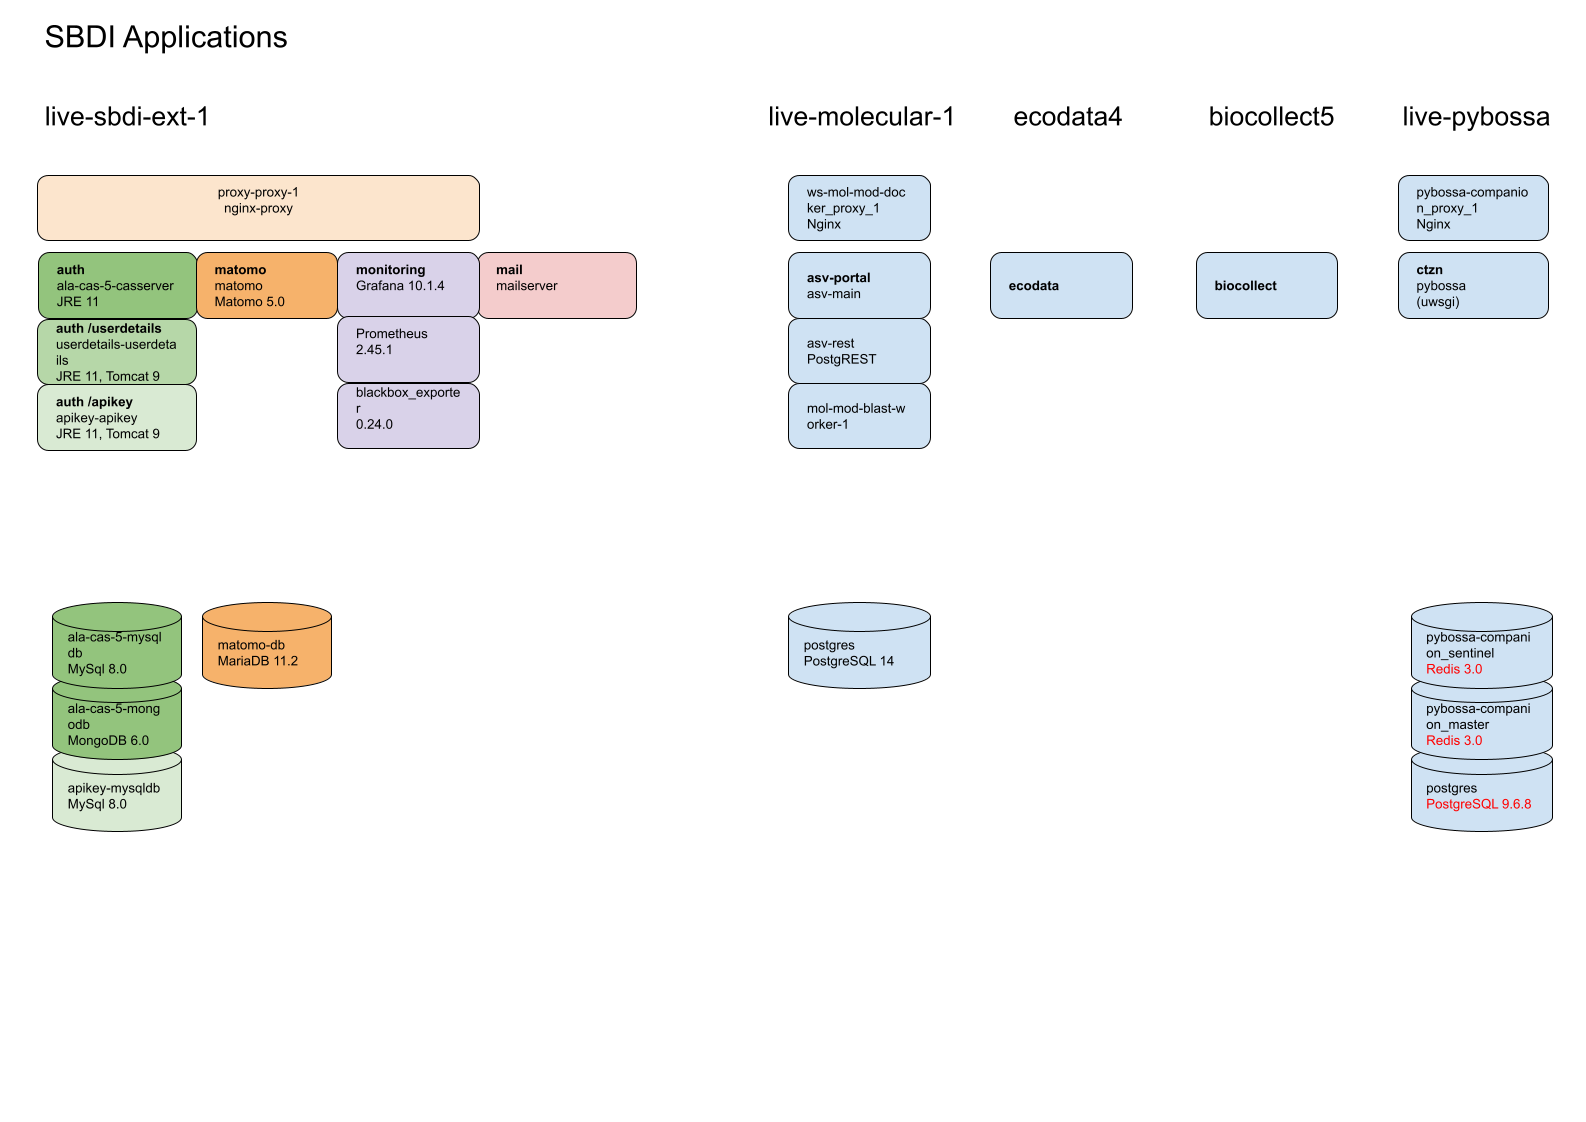
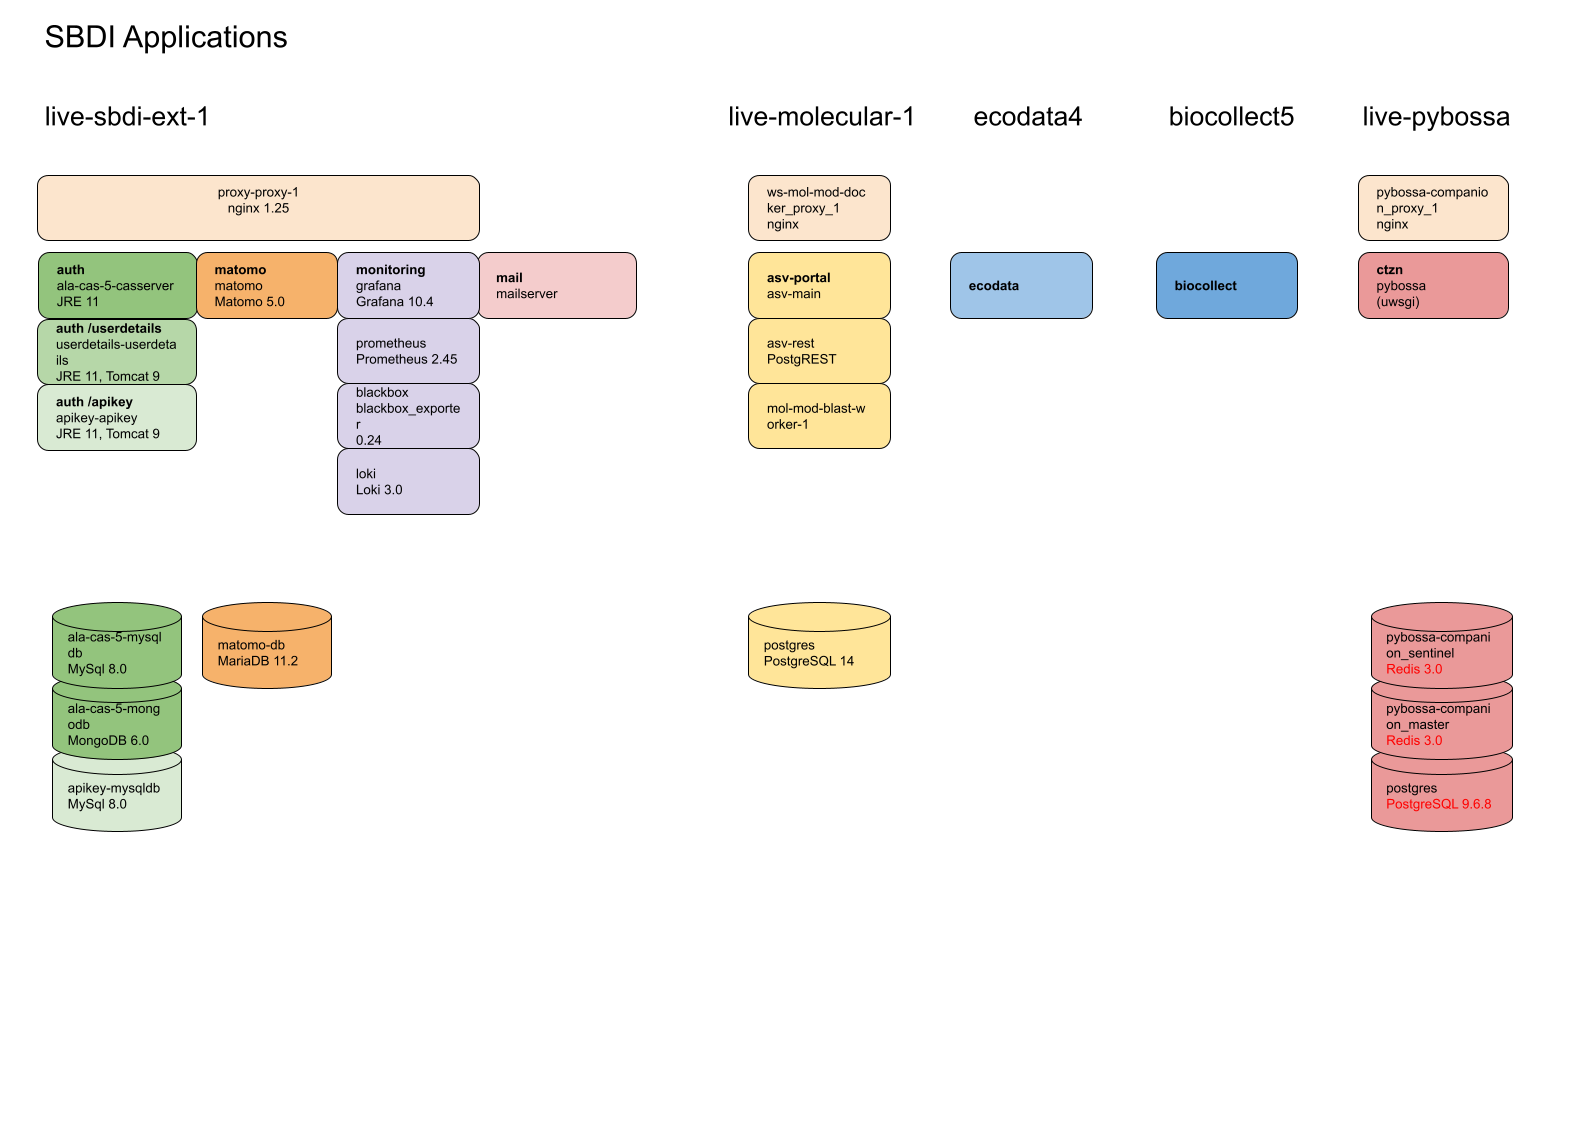
Update readme and system graphs

diff --git a/README.md b/README.md
@@ -5,11 +5,11 @@ This document serves as a starting point for documentation of the SBDI system, s
 ## Hosting
 - Cloud servers are hosted by [Safespring](https://dashboard.sto1.safespring.com/) using [Openstack](https://www.openstack.org/).
 - Domains (biodiversitydata.se plus a few more) are managed by [Loopia](https://www.loopia.se/loggain/).
-- SSL/TLS Certificates are provided by Geant?
+- SSL/TLS Certificates are provided by Sectigo (through the IT department at NRM).
 - Applications run in [Docker](https://www.docker.com/), the majority in a Docker Swarm setup consisting of several manager and worker nodes. Some applications run on separate servers.
 
 ### Application overview
-![SBDI Applications main](images/SBDI-Applications-main.png)
+![SBDI Applications swarm](images/SBDI-Applications-swarm.png)
 ![SBDI Applications other](images/SBDI-Applications-other.png)
 
 
@@ -59,4 +59,4 @@ Other:
 - [sbdi4r2](https://github.com/biodiversitydata-se/sbdi4r2)
 
 ## Data ingestion
-Datasets are published by the various data providers in the [GBIF IPT](https://www.gbif.se/ipt). The data is then loaded into the Bioatlas using the [pipelines](https://github.com/biodiversitydata-se/pipelines) application. Documentation for data ingestion can be found in [the pipelines repository](https://github.com/biodiversitydata-se/pipelines/blob/master/sbdi/README.md) and in [sbdi-install](https://github.com/biodiversitydata-se/sbdi-install/blob/main/roles/pipelines/README.md).
+Datasets are published by the various data providers in the [GBIF Sweden IPT](https://www.gbif.se/ipt). The data is then loaded into the Bioatlas using the [pipelines](https://github.com/biodiversitydata-se/pipelines) application. Documentation for data ingestion can be found in [the pipelines repository](https://github.com/biodiversitydata-se/pipelines/blob/master/sbdi/README.md) and in [sbdi-install](https://github.com/biodiversitydata-se/sbdi-install/blob/main/ansible/roles/pipelines/README.md).
